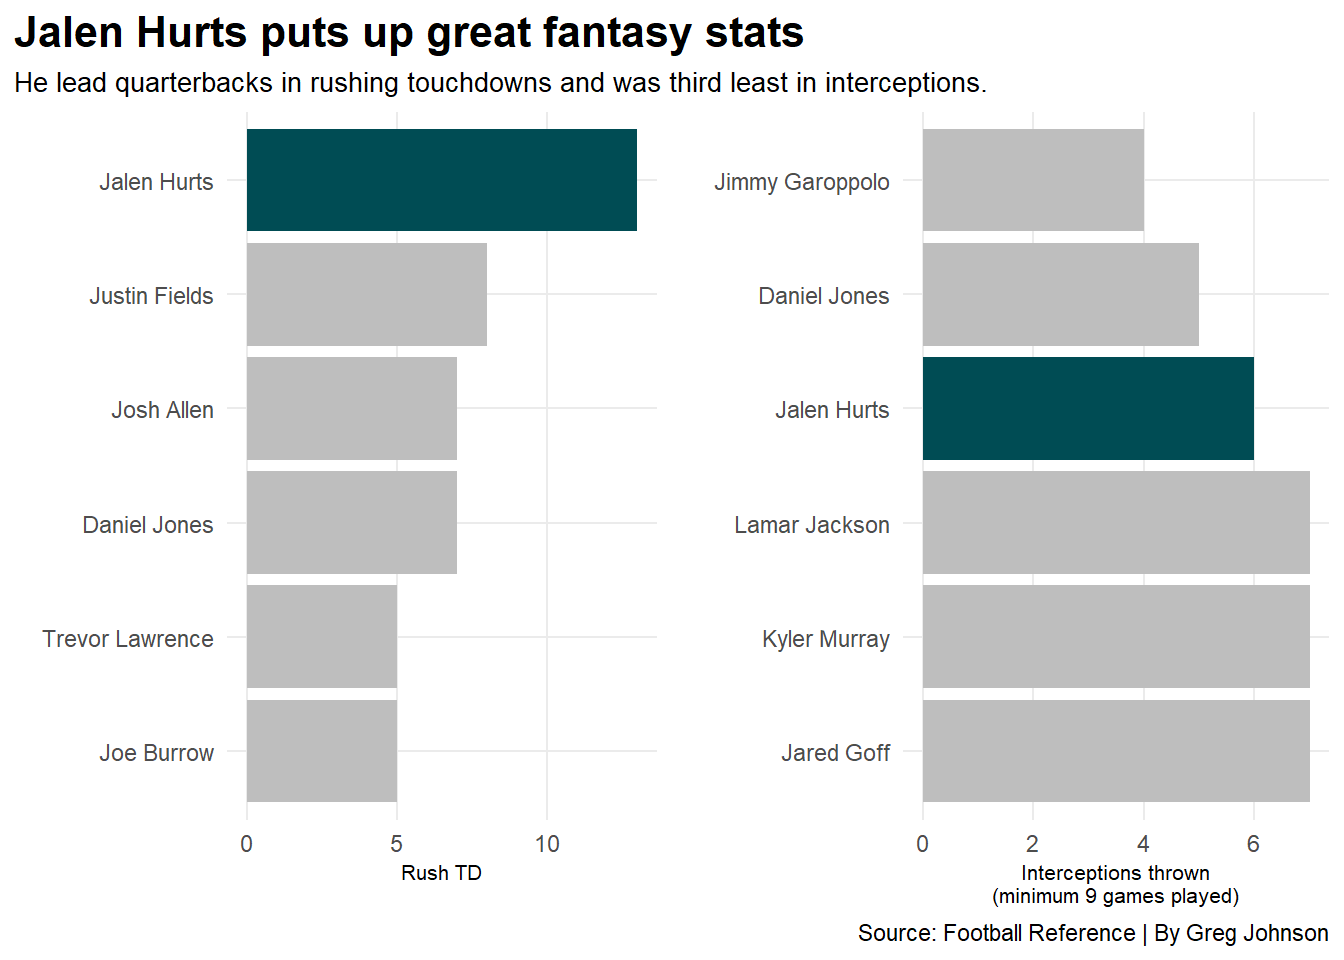
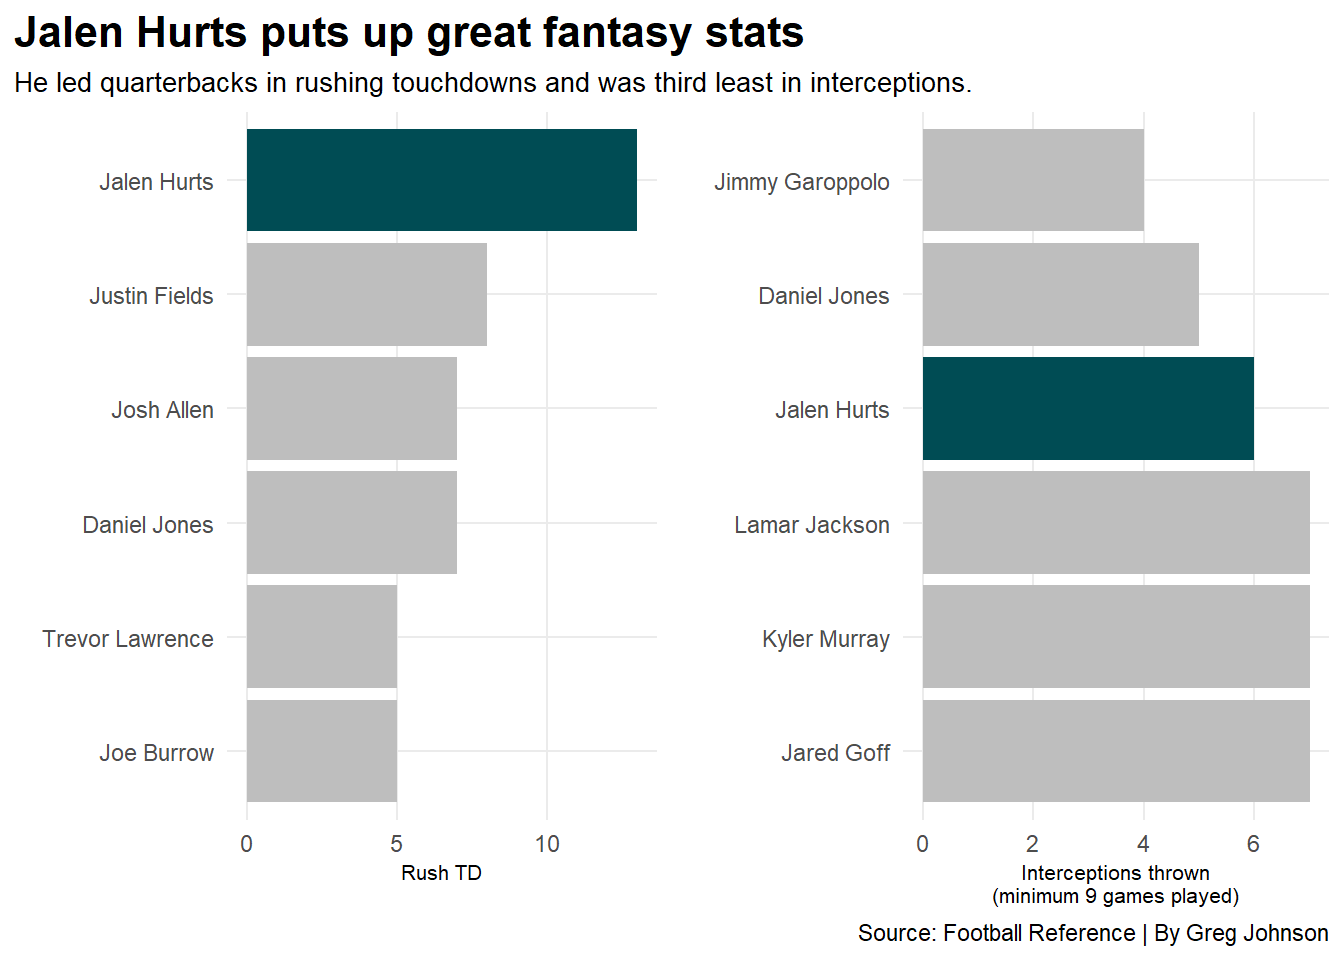
hurts

Changed region(s): [[0.0625, 0.0625, 0.7188, 0.0938]]

diff --git a/posts/best-fantasy-quarterback-is-jalen-hurts/index.html b/posts/best-fantasy-quarterback-is-jalen-hurts/index.html
@@ -213,9 +213,9 @@ code span.wa { color: #60a0b0; font-weight: bold; font-style: italic; } /* Warni
 
 
 
-<p>Every fall, millions of Americans compete against their friends, families and coworkers in Fantasy Football. Each participant, dubbed a team manager, drafts players in different football skill positions from different NFL teams in hopes that the players will lead him or her to victory. Players gain points for the manager in different ways. Touchdowns, yards and catches are all worth different values for the manager, and every week, the manager competes against a different manager in their league to score the most points.</p>
-<p>The position that scores the most points is typically the quarterback. Many managers try to draft quarterbacks that put up good stats such as Patrick Mahomes or Josh Allen in the early rounds, but in 2022, there was a quarterback who outperformed everyone else in many ways that lead many managers to the fantasy playoffs.</p>
-<p>When it comes to the ideal fantasy quarterback, athleticism and the ability to both pass and run are much more important than winning games for their team. In fact, whether the players’ NFL teams win or lose is irrelevant toward fantasy points. NFL players, and quarterbacks especially, cannot play forever, especially with good fantasy stats. In 2022, the top four quarterbacks in fantasy football were all under the age of 28, and they outscored the rest of the field significantly.</p>
+<p>Every fall, millions of Americans compete against their friends, families and coworkers in Fantasy Football. Each participant, dubbed a team manager, drafts players in different football skill positions from different NFL teams in hopes that the players will lead him or her to victory. Players gain points for the manager in different ways. Touchdowns, yards and catches, for example, are all worth different values for the manager, and every week, the manager competes against a different manager in their league to score the most points.</p>
+<p>The position that scores the most points is typically the quarterback. Many managers try to draft quarterbacks that put up good stats such as Patrick Mahomes or Josh Allen in the early rounds, but in 2022, there was a quarterback who outperformed everyone else in many ways that led many managers to the fantasy playoffs.</p>
+<p>When it comes to the ideal fantasy quarterback, athleticism and the ability to both pass and run the ball are much more important than winning games for their team. In fact, whether players’ NFL teams win or lose is irrelevant toward fantasy points. NFL players, and quarterbacks especially, cannot play forever, especially with good fantasy stats. In 2022, the top four point scoring quarterbacks in fantasy football were all under the age of 28, and they outscored the rest of the field significantly.</p>
 <div class="cell">
 <details>
 <summary>Code</summary>
@@ -343,7 +343,7 @@ code span.wa { color: #60a0b0; font-weight: bold; font-style: italic; } /* Warni
 <span id="cb2-15"><a href="#cb2-15" aria-hidden="true" tabindex="-1"></a>    ) <span class="sc">+</span></span>
 <span id="cb2-16"><a href="#cb2-16" aria-hidden="true" tabindex="-1"></a>  <span class="fu">coord_flip</span>()<span class="sc">+</span></span>
 <span id="cb2-17"><a href="#cb2-17" aria-hidden="true" tabindex="-1"></a>  <span class="fu">labs</span>(<span class="at">title=</span><span class="st">"How did quarterback perform each game?"</span>,</span>
-<span id="cb2-18"><a href="#cb2-18" aria-hidden="true" tabindex="-1"></a>       <span class="at">subtitle=</span> <span class="st">"Hurts lead all quarterbacks in fantasy points per game in 2022."</span>,</span>
+<span id="cb2-18"><a href="#cb2-18" aria-hidden="true" tabindex="-1"></a>       <span class="at">subtitle=</span> <span class="st">"Hurts led all quarterbacks in fantasy points per game in 2022."</span>,</span>
 <span id="cb2-19"><a href="#cb2-19" aria-hidden="true" tabindex="-1"></a>       <span class="at">x=</span><span class="st">""</span>, </span>
 <span id="cb2-20"><a href="#cb2-20" aria-hidden="true" tabindex="-1"></a>       <span class="at">y=</span><span class="st">"PPR Points per Game"</span>,</span>
 <span id="cb2-21"><a href="#cb2-21" aria-hidden="true" tabindex="-1"></a>       <span class="at">caption=</span><span class="st">"Source: Football Reference | By Greg Johnson"</span>) <span class="sc">+</span> </span>
@@ -361,7 +361,7 @@ code span.wa { color: #60a0b0; font-weight: bold; font-style: italic; } /* Warni
 </div>
 </div>
 <p>Why did Hurts lead all quarterbacks in fantasy points per game? He is not as flashy as Mahomes or Allen in terms of passing yards and touchdowns after all. </p>
-<p>What brought Hurts over the hump in points per game was leading all quarterbacks in rushing touchdowns and only throwing six interceptions on the season. These stats can make or break a quarterback’s week in fantasy, and Hurts is one of only two quarterbacks (the other being the New York Giants’ Daniel Jones) to be in the top 6 of both stats.</p>
+<p>What brought Hurts over the hump in points per game was leading all quarterbacks in rushing touchdowns and only throwing six interceptions on the season. These two stats can make or break a quarterback’s week in fantasy, and Hurts is one of only two quarterbacks (the other being the New York Giants’ Daniel Jones) to be in the top six of both stats.</p>
 <div class="cell">
 <details>
 <summary>Code</summary>
@@ -376,7 +376,7 @@ code span.wa { color: #60a0b0; font-weight: bold; font-style: italic; } /* Warni
 <span id="cb3-9"><a href="#cb3-9" aria-hidden="true" tabindex="-1"></a>    <span class="fu">geom_bar</span>(<span class="at">data=</span>jh, <span class="fu">aes</span>(<span class="at">x=</span><span class="fu">reorder</span>(Player, RushTD), <span class="at">weight=</span>RushTD), <span class="at">fill=</span><span class="st">"#004C54"</span>) <span class="sc">+</span></span>
 <span id="cb3-10"><a href="#cb3-10" aria-hidden="true" tabindex="-1"></a>  <span class="fu">coord_flip</span>() <span class="sc">+</span></span>
 <span id="cb3-11"><a href="#cb3-11" aria-hidden="true" tabindex="-1"></a>  <span class="fu">labs</span>(<span class="at">title=</span><span class="st">"Jalen Hurts puts up great fantasy stats"</span>,</span>
-<span id="cb3-12"><a href="#cb3-12" aria-hidden="true" tabindex="-1"></a>       <span class="at">subtitle=</span> <span class="st">"He lead quarterbacks in rushing touchdowns and was third least in interceptions."</span>,</span>
+<span id="cb3-12"><a href="#cb3-12" aria-hidden="true" tabindex="-1"></a>       <span class="at">subtitle=</span> <span class="st">"He led quarterbacks in rushing touchdowns and was third least in interceptions."</span>,</span>
 <span id="cb3-13"><a href="#cb3-13" aria-hidden="true" tabindex="-1"></a>       <span class="at">x=</span><span class="st">""</span>, </span>
 <span id="cb3-14"><a href="#cb3-14" aria-hidden="true" tabindex="-1"></a>       <span class="at">y=</span><span class="st">"Rush TD</span><span class="sc">\n</span><span class="st">"</span>,</span>
 <span id="cb3-15"><a href="#cb3-15" aria-hidden="true" tabindex="-1"></a>       <span class="at">caption=</span><span class="st">""</span>) <span class="sc">+</span> </span>

diff --git a/index.html b/index.html
@@ -171,7 +171,7 @@ ul.task-list li input[type="checkbox"] {
 
 <div class="quarto-listing quarto-listing-container-default" id="listing-listing">
 <div class="list quarto-listing-default">
-<div class="quarto-post image-right" data-index="0" data-categories="qbs,ppg,Hurts" data-listing-date-sort="1683435600000" data-listing-file-modified-sort="1683514073335" data-listing-reading-time-sort="6.135">
+<div class="quarto-post image-right" data-index="0" data-categories="qbs,ppg,Hurts" data-listing-date-sort="1683435600000" data-listing-file-modified-sort="1683519807798" data-listing-reading-time-sort="6.165">
 <div class="thumbnail">
 <p><a href="./posts/best-fantasy-quarterback-is-jalen-hurts/index.html"> <img src="./posts/best-fantasy-quarterback-is-jalen-hurts/Coverimagehurts.png" class="thumnail-image"> </a></p>
 </div>
